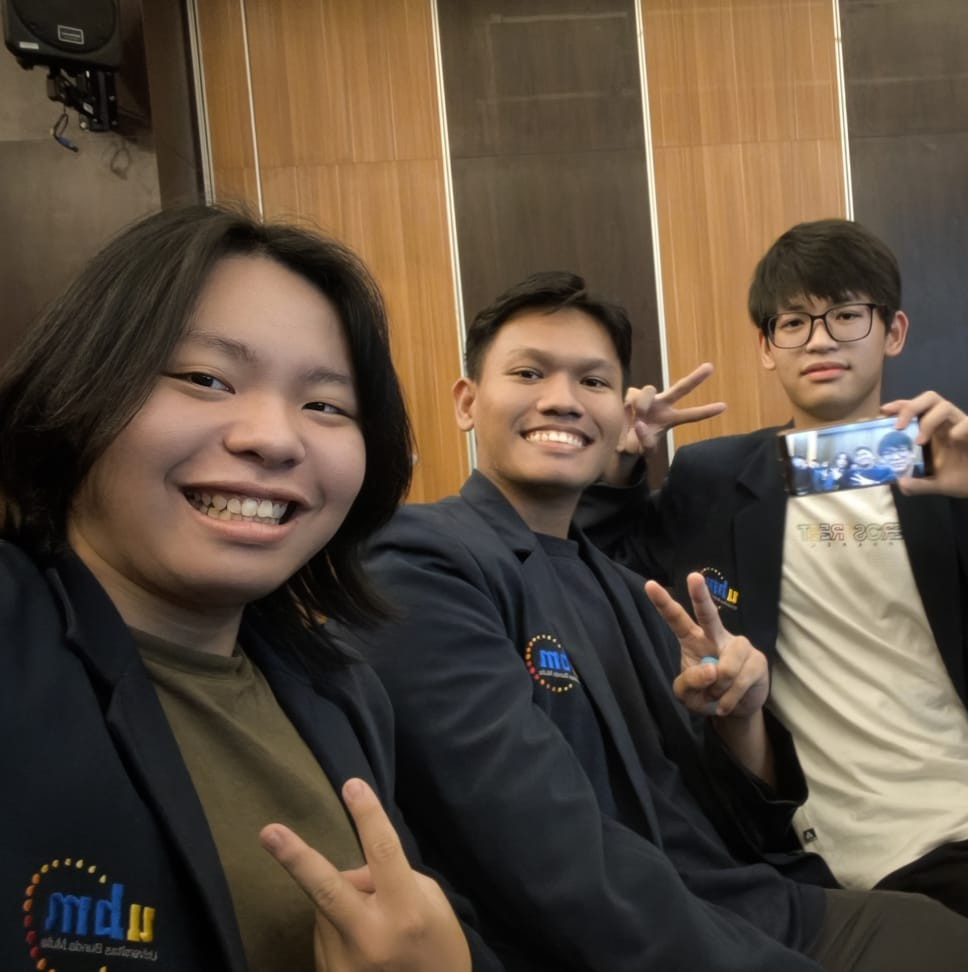
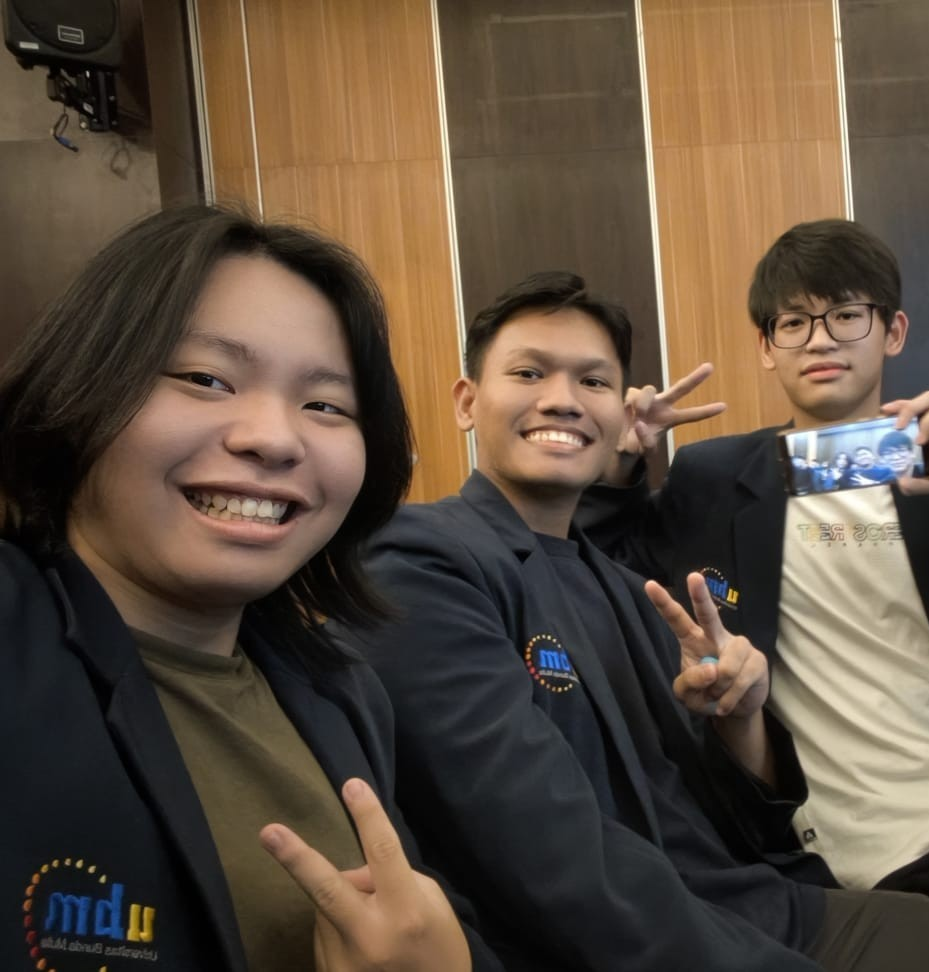
feat: add birthday data configuration and supporting images for Josua's 19th birthday page

diff --git a/src/data/birthday.ts b/src/data/birthday.ts
@@ -34,7 +34,7 @@ export const birthdayContent = {
         src: "/birthday/photos/photo-02.jpg",
         alt: "Creative workspace setup",
         caption: "The tinkering setup",
-        aspectRatio: "aspect-[16/10]"
+        aspectRatio: "aspect-[4/4]"
       },
       {
         id: 3,
@@ -55,7 +55,7 @@ export const birthdayContent = {
         src: "/birthday/photos/photo-05.jpg",
         alt: "Coding late at night",
         caption: "Ambition",
-        aspectRatio: "aspect-[16/10]"
+        aspectRatio: "aspect-[1/1]"
       },
       {
         id: 6,
@@ -69,7 +69,7 @@ export const birthdayContent = {
         src: "/birthday/photos/photo-07.jpg",
         alt: "Mathematical thinking",
         caption: "The whiteboard",
-        aspectRatio: "aspect-[3/4]"
+        aspectRatio: "aspect-[10/5]"
       },
       {
         id: 8,
